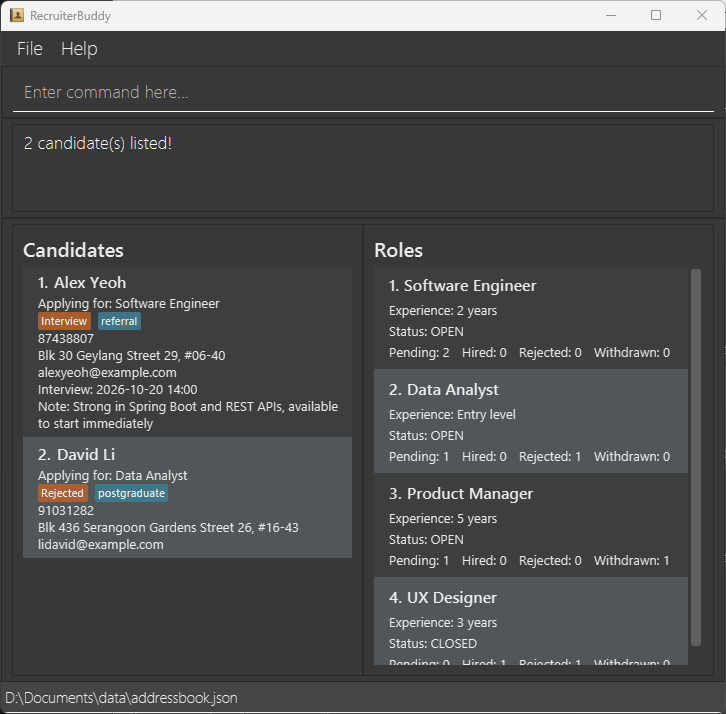
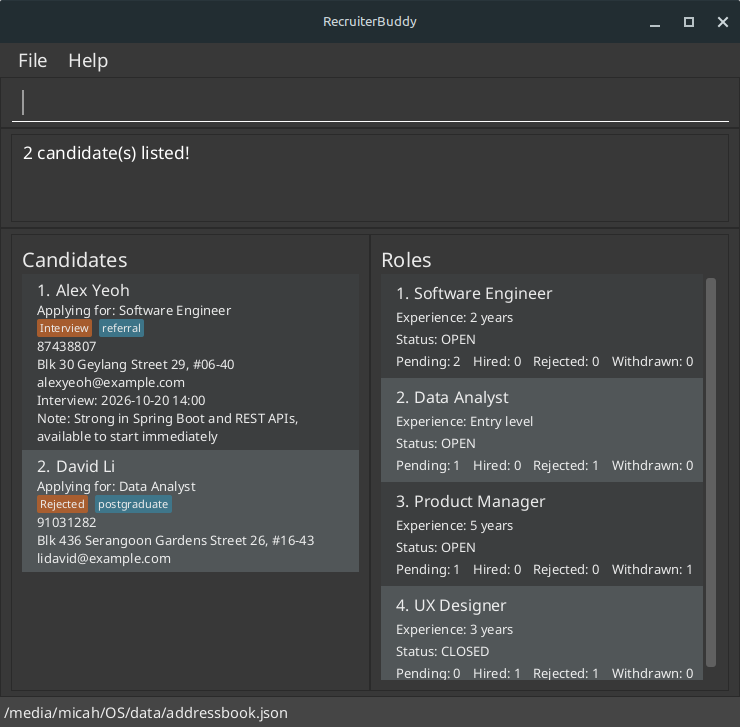
UG: update screenshots

diff --git a/docs/UserGuide.md b/docs/UserGuide.md
@@ -24,7 +24,8 @@ RecruiterBuddy is optimised for use through a Command Line Interface (CLI) while
 
 3. Copy the file to an empty folder you want to use for RecruiterBuddy.
 
-4. Open a terminal, `cd` to the folder containing the JAR file, and run `java -jar addressbook.jar`.<br>
+4. Open a terminal, `cd` to the folder containing the JAR file, and run `java -jar "[JARName]"`, where `JARName` is the name and extension of the JAR file. For example, run `java -jar "[CS2103-F12-3][RecruiterBuddy].jar"` for `[CS2103-F12-3][RecruiterBuddy].jar`. <br>
+   The quotes are needed for names containing `[` or `]`.
    A GUI similar to the one below should appear in a few seconds. Note how the app contains some sample data.<br>
    ![Ui](images/Ui.png)
 
